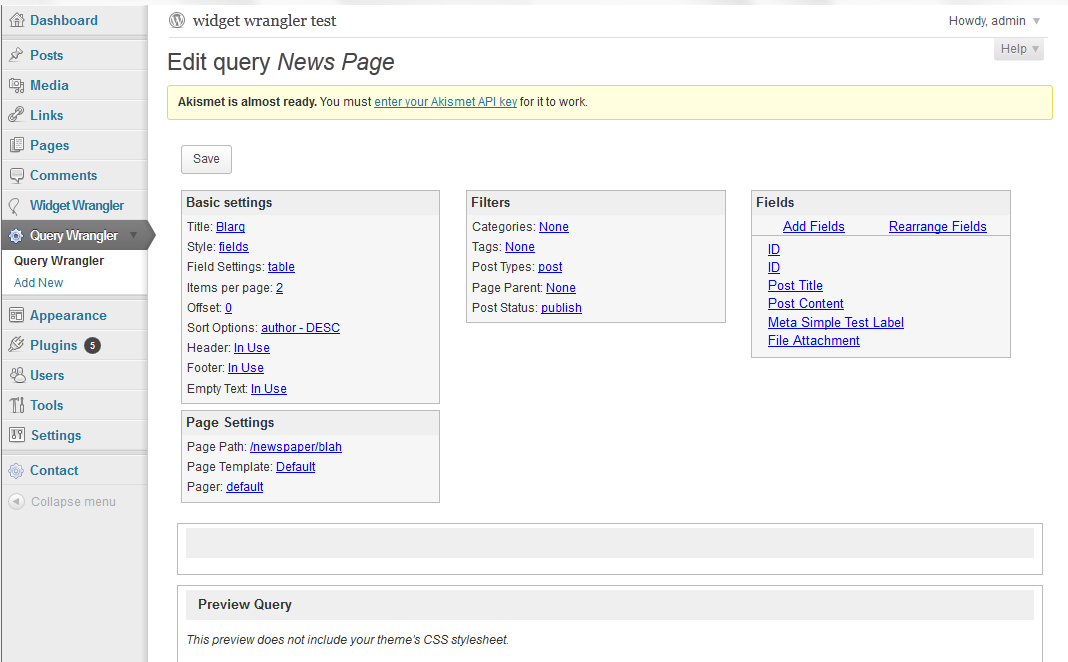
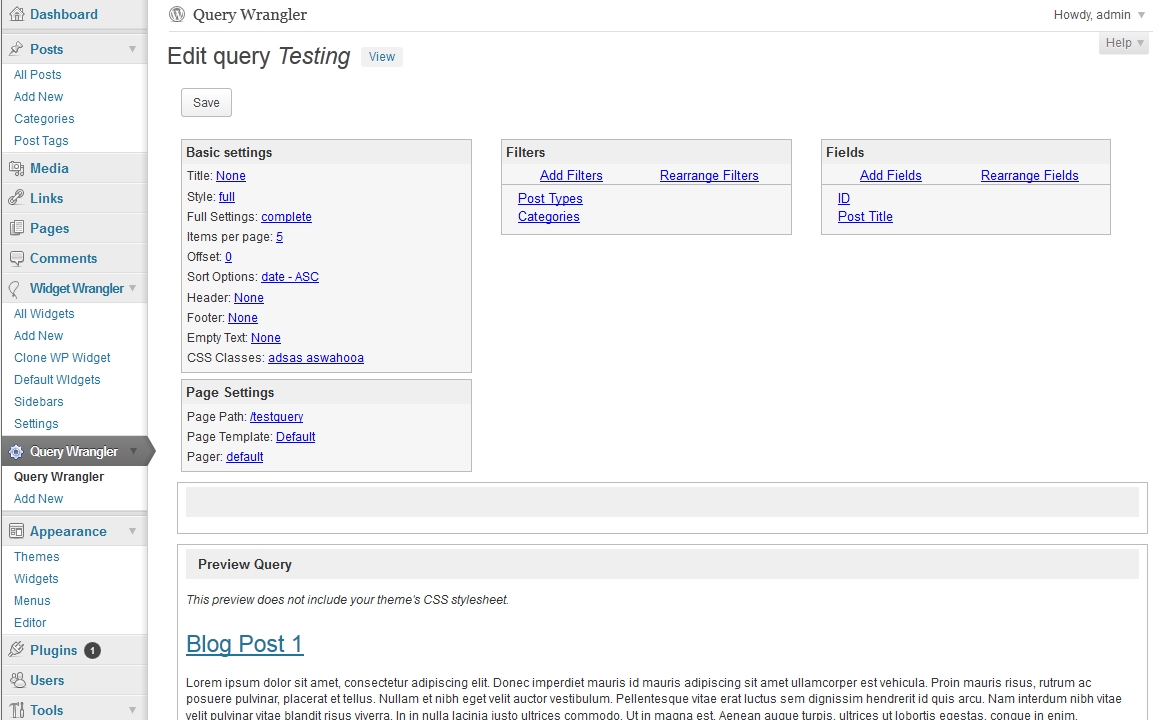
Minor UI improvements, new screenshot

diff --git a/query-wrangler.php b/query-wrangler.php
@@ -287,7 +287,12 @@ function qw_page_handler(){
  * Create Query Page
  */
 function qw_create_query() {
-  print theme('admin_wrapper', array('title' => 'Create Query', 'content' => theme('query_create')));
+  $args = array(
+    'title' => 'Create Query',
+    'content' => theme('query_create')
+  );
+  
+  print theme('admin_wrapper', $args);
 }
 /*
  * Query Edit Page
@@ -359,6 +364,11 @@ function qw_edit_query_form()
       // content is the query_edit page
       'content' => theme('query_edit', $edit_args)
     );
+    
+    // add view link for pages
+    if($row->type == 'page' && isset($row->path)){
+      $admin_args['title'].= ' <a class="add-new-h2" target="_blank" href="'.get_bloginfo('wpurl').$row->path.'">View</a>';
+    }
     
     // include the edit form
     print theme('admin_wrapper', $admin_args); 
